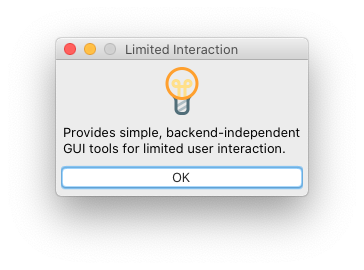
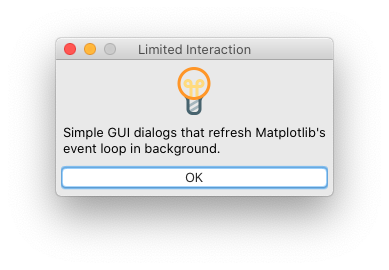
[STABLE]  Updated description summary.

diff --git a/doc/_build/html/searchindex.js b/doc/_build/html/searchindex.js
@@ -1,1 +1,1 @@
-Search.setIndex({docnames:["api","index"],envversion:{"sphinx.domains.c":2,"sphinx.domains.changeset":1,"sphinx.domains.citation":1,"sphinx.domains.cpp":3,"sphinx.domains.index":1,"sphinx.domains.javascript":2,"sphinx.domains.math":2,"sphinx.domains.python":2,"sphinx.domains.rst":2,"sphinx.domains.std":1,nbsphinx:3,sphinx:56},filenames:["api.rst","index.rst"],objects:{"":{limitedinteraction:[0,0,0,"-"]},limitedinteraction:{button_dialog:[0,1,1,""],get_filename:[0,1,1,""],get_folder:[0,1,1,""],input_dialog:[0,1,1,""],message:[0,1,1,""]}},objnames:{"0":["py","module","Python module"],"1":["py","function","Python function"]},objtypes:{"0":"py:module","1":"py:function"},terms:{"function":0,"int":0,"return":0,"true":[0,1],"while":[0,1],The:0,Use:0,Using:1,abel:0,about:1,accept:0,action:[0,1],after:1,alert:0,all:0,anaconda:1,ancient:1,ani:1,api:1,backend:[0,1],background:[0,1],base:1,befor:1,block:[0,1],bool:0,box:1,brainer:1,broken:1,button:0,button_dialog:[0,1],calcul:1,call:1,can:[0,1],cancel:[0,1],cannot:0,caption:0,choic:[0,1],choice_index:1,click:[0,1],clock:[0,1],close:[0,1],cloud:0,code:1,conda:1,conflict:0,conjointli:1,consult:0,continu:1,coordin:0,correspond:0,could:1,credenti:1,current:[0,1],depend:[0,1],design:1,dialog:0,each:0,easi:1,ecosystem:1,either:0,empti:0,enter:1,entri:0,equival:1,error:0,etc:[0,1],even:1,event:[0,1],except:0,execut:1,extern:[0,1],extra:1,fals:1,few:1,figur:1,file:[0,1],filenam:1,find:[0,1],first:0,folder:[0,1],font:1,foreground:1,forg:1,from:[0,1],full:0,gear:[0,1],get:[0,1],get_filenam:[0,1],get_fold:[0,1],github:1,gui:0,has:[0,1],have:1,help:0,home:1,icon:[0,1],immedi:1,independ:[0,1],index:0,info:0,initi:0,initial_fold:0,initial_valu:[0,1],input:0,input_dialog:[0,1],inputdlg:1,instal:0,instead:0,instruct:0,interest:1,interpret:1,ipython:1,its:1,kwarg:0,label:[0,1],launch:1,left:0,light:[0,1],limitedinteract:[0,1],linux:1,list:0,local:1,lock:[0,1],look:1,loop:[0,1],mac:1,maco:1,mai:1,mask:[0,1],matlab:1,matplotlib:[0,1],meanwhil:1,menu:1,messag:0,min_height:0,min_width:0,minim:0,miss:1,modul:0,mojav:1,moment:1,msgbox:1,multipl:0,name:[0,1],need:1,next:1,non:[0,1],none:0,one:0,onli:0,oper:1,option:[0,1],out:1,own:[0,1],page:1,password:1,path:0,path_to_dock_icon:0,path_to_image_in_dialog:0,peopl:1,pip:1,pixel:0,pleas:[0,1],png:0,previou:0,problem:1,process:[0,1],prompt:0,prove:1,provid:[0,1],python:1,question:[0,1],refresh:1,run:[0,1],same:1,second:0,select:[0,1],separ:1,sequenc:0,serious:1,session:1,sever:1,should:1,show:0,simpl:[0,1],sinc:1,situat:1,some:1,stai:1,standard:1,star:0,start:1,still:1,str:0,string:0,system:1,than:1,thi:[0,1],think:1,titl:[0,1],tkinter:1,tool:[0,1],top:0,tracker:1,transit:1,tupl:0,type:0,ugli:1,updat:[0,1],use:1,useful:1,user:0,usernam:1,using:[0,1],valu:0,vast:1,veri:1,version:1,wait:[0,1],warn:0,what:1,when:1,where:1,which:1,who:1,width:0,window:0,without:1,work:1,wxwidget:1,you:1,your:1,zoom:1},titles:["API","Limited Interaction"],titleterms:{"function":1,"import":1,addit:0,anoth:1,api:0,ask:1,creat:1,gui:1,input:1,instal:1,interact:[0,1],issu:1,known:1,limit:[0,1],map:1,messag:1,modul:1,other:1,paramet:0,persist:1,site:1,usag:1,user:1,why:1,window:1}})
+Search.setIndex({docnames:["api","index"],envversion:{"sphinx.domains.c":2,"sphinx.domains.changeset":1,"sphinx.domains.citation":1,"sphinx.domains.cpp":3,"sphinx.domains.index":1,"sphinx.domains.javascript":2,"sphinx.domains.math":2,"sphinx.domains.python":2,"sphinx.domains.rst":2,"sphinx.domains.std":1,nbsphinx:3,sphinx:56},filenames:["api.rst","index.rst"],objects:{"":{limitedinteraction:[0,0,0,"-"]},limitedinteraction:{button_dialog:[0,1,1,""],get_filename:[0,1,1,""],get_folder:[0,1,1,""],input_dialog:[0,1,1,""],message:[0,1,1,""]}},objnames:{"0":["py","module","Python module"],"1":["py","function","Python function"]},objtypes:{"0":"py:module","1":"py:function"},terms:{"function":0,"int":0,"return":0,"true":[0,1],"while":[0,1],The:0,Use:0,Using:1,abel:0,about:1,accept:0,action:[0,1],after:1,alert:0,all:0,anaconda:1,ancient:1,ani:1,api:1,backend:[0,1],background:[0,1],base:1,befor:1,block:[0,1],bool:0,box:1,brainer:1,broken:1,button:0,button_dialog:[0,1],calcul:1,call:1,can:[0,1],cancel:[0,1],cannot:0,caption:0,choic:[0,1],choice_index:1,click:[0,1],clock:[0,1],close:[0,1],cloud:0,code:1,conda:1,conflict:0,conjointli:1,consult:0,continu:1,coordin:0,correspond:0,could:1,credenti:1,current:[0,1],depend:[0,1],design:1,dialog:[0,1],each:0,easi:1,ecosystem:1,either:0,empti:0,enter:1,entri:0,equival:1,error:0,etc:[0,1],even:1,event:[0,1],except:0,execut:1,extern:[0,1],extra:1,fals:1,few:1,figur:1,file:[0,1],filenam:1,find:[0,1],first:0,folder:[0,1],font:1,foreground:1,forg:1,from:[0,1],full:0,gear:[0,1],get:[0,1],get_filenam:[0,1],get_fold:[0,1],github:1,gui:0,has:[0,1],have:1,help:0,home:1,icon:[0,1],immedi:1,independ:[0,1],index:0,info:0,initi:0,initial_fold:0,initial_valu:[0,1],input:0,input_dialog:[0,1],inputdlg:1,instal:0,instead:0,instruct:0,interest:1,interpret:1,ipython:1,its:1,kwarg:0,label:[0,1],launch:1,left:0,light:[0,1],limitedinteract:[0,1],linux:1,list:0,local:1,lock:[0,1],look:1,loop:[0,1],mac:1,maco:1,mai:1,mask:[0,1],matlab:1,matplotlib:[0,1],meanwhil:1,menu:1,messag:0,min_height:0,min_width:0,minim:0,miss:1,modul:0,mojav:1,moment:1,msgbox:1,multipl:0,name:[0,1],need:1,next:1,non:[0,1],none:0,one:0,onli:0,oper:1,option:[0,1],out:1,own:[0,1],page:1,password:1,path:0,path_to_dock_icon:0,path_to_image_in_dialog:0,peopl:1,pip:1,pixel:0,pleas:[0,1],png:0,previou:0,problem:1,process:[0,1],prompt:0,prove:1,provid:[0,1],python:1,question:[0,1],refresh:1,run:[0,1],same:1,second:0,select:[0,1],separ:1,sequenc:0,serious:1,session:1,sever:1,should:1,show:0,simpl:[0,1],sinc:1,situat:1,some:1,stai:1,standard:1,star:0,start:1,still:1,str:0,string:0,system:1,than:1,thi:[0,1],think:1,titl:[0,1],tkinter:1,tool:[0,1],top:0,tracker:1,transit:1,tupl:0,type:0,ugli:1,updat:[0,1],use:1,useful:1,user:0,usernam:1,using:[0,1],valu:0,vast:1,veri:1,version:1,wait:[0,1],warn:0,what:1,when:1,where:1,which:1,who:1,width:0,window:0,without:1,work:1,wxwidget:1,you:1,your:1,zoom:1},titles:["API","Limited Interaction"],titleterms:{"function":1,"import":1,addit:0,anoth:1,api:0,ask:1,creat:1,gui:1,input:1,instal:1,interact:[0,1],issu:1,known:1,limit:[0,1],map:1,messag:1,modul:1,other:1,paramet:0,persist:1,site:1,usag:1,user:1,why:1,window:1}})

diff --git a/doc/_build/html/index.html b/doc/_build/html/index.html
@@ -273,8 +273,8 @@
 <h1 id="index--page-root">Limited Interaction<a class="headerlink" href="#index--page-root" title="Permalink to this headline">¶</a></h1>
 <div class="highlight-python notranslate"><div class="highlight"><pre><span></span><span class="kn">import</span> <span class="nn">limitedinteraction</span> <span class="k">as</span> <span class="nn">li</span>
 
-<span class="n">li</span><span class="o">.</span><span class="n">button_dialog</span><span class="p">(</span><span class="s1">'Provides simple, backend-independent</span><span class="se">\n</span><span class="s1">'</span>
-                 <span class="s1">'GUI tools for limited user interaction.'</span><span class="p">,</span>
+<span class="n">li</span><span class="o">.</span><span class="n">button_dialog</span><span class="p">(</span><span class="s2">"Simple GUI dialogs that refresh</span><span class="se">\n</span><span class="s2">"</span>
+                 <span class="s2">"Matplotlib's event loop in background."</span><span class="p">,</span>
                  <span class="n">choices</span><span class="o">=</span><span class="p">[</span><span class="s1">'OK'</span><span class="p">],</span>
                  <span class="n">title</span><span class="o">=</span><span class="s1">'Limited Interaction'</span><span class="p">,</span>
                  <span class="n">icon</span><span class="o">=</span><span class="s1">'light'</span><span class="p">)</span>

diff --git a/setup.py b/setup.py
@@ -9,7 +9,7 @@ with open("limitedinteraction/VERSION", "r") as fh:
 setuptools.setup(
     name='limitedinteraction',
     version=version,
-    description='Provides simple, backend-independant GUI tools for limited user interaction.',
+    description="Simple GUI dialogs that refresh Matplotlib's event loop in background.",
     long_description=long_description,
     long_description_content_type="text/markdown",
     url='https://felixchenier.uqam.ca/limitedinteraction/',

diff --git a/README.md b/README.md
@@ -3,8 +3,8 @@
 ```python
 import limitedinteraction as li
 
-li.button_dialog('Provides simple, backend-independent\n'
-                 'GUI tools for limited user interaction.',
+li.button_dialog("Simple GUI dialogs that refresh Matplotlib's\n"
+				 "event loop in background.",
                  choices=['OK'],
                  title='Limited Interaction',
                  icon='light')
